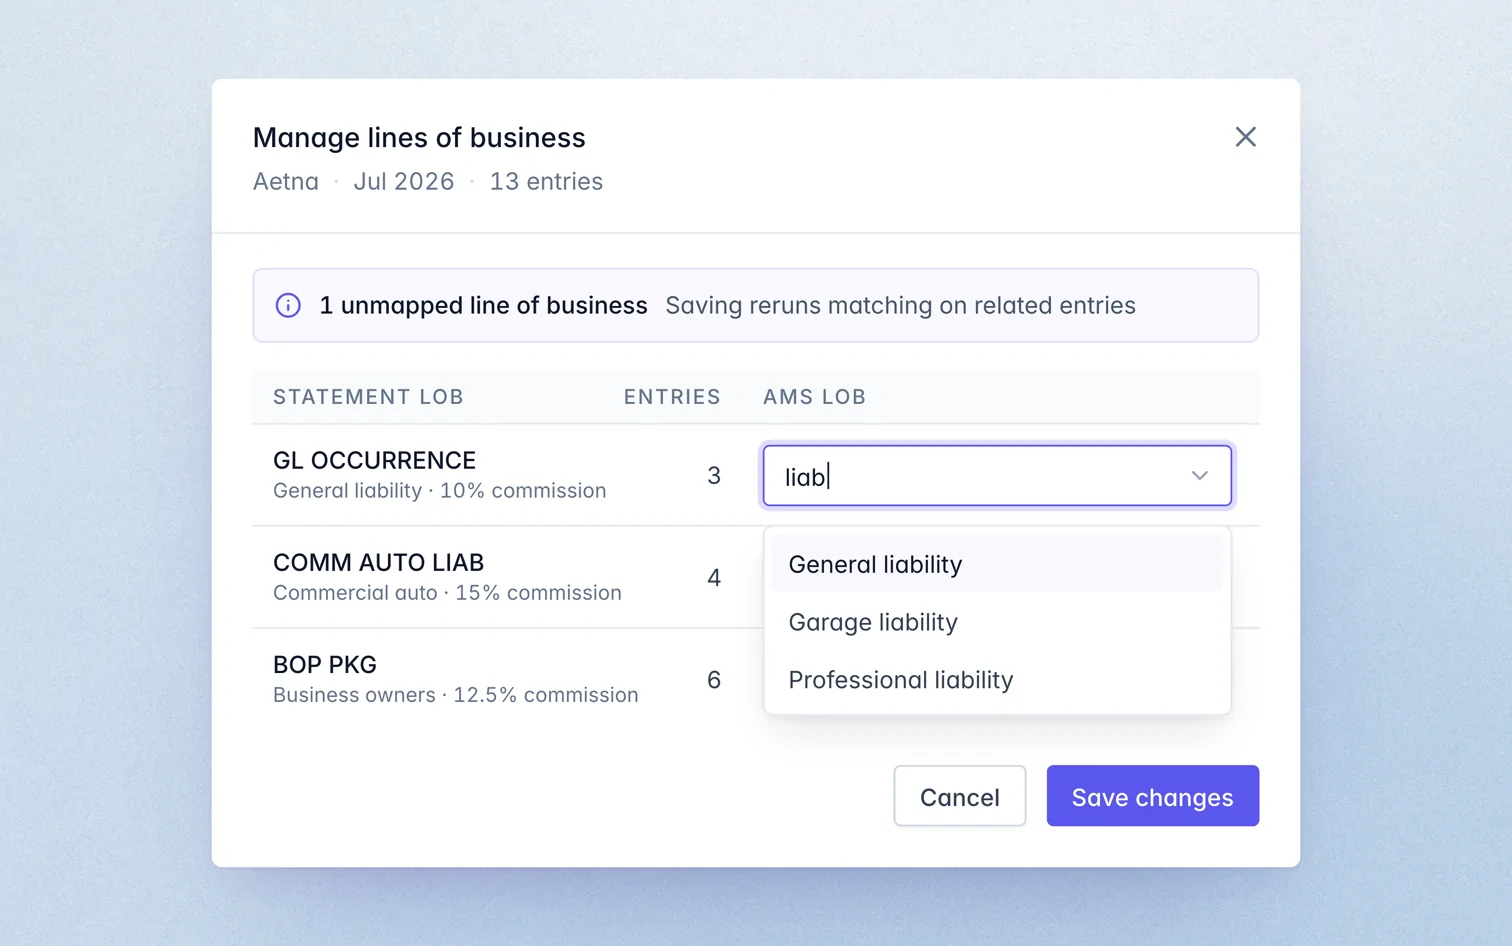
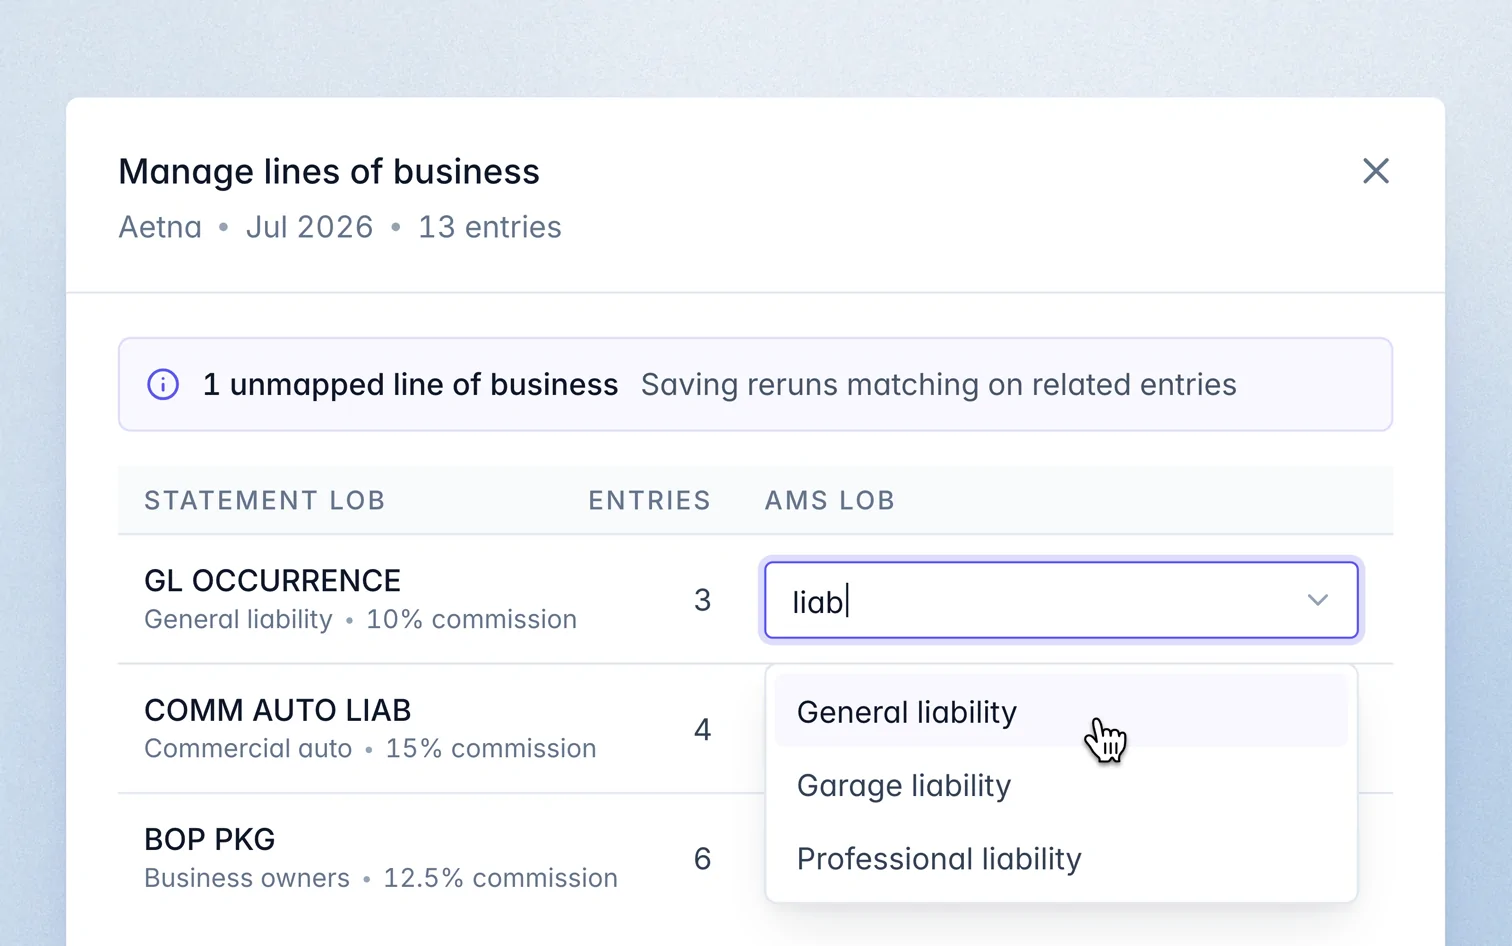
Direct Bill Automation: real captions, updated LOB shot
- Six captions describing what each shot shows, no closing periods
  (labels, not sentences); Cora AI named in 03 and 05
- 04: new Manage lines of business shot (LOB_Detail_C)

diff --git a/src/content/projects.ts b/src/content/projects.ts
@@ -28,7 +28,14 @@ export const projects: Project[] = [
     description: PITHY,
     caseStudyHref: "#",
     imageCount: 6,
-    captions: placeholderCaptions(6),
+    captions: [
+      "Every carrier statement, reconciled to zero",
+      "From carrier statement to AMS, in one pass",
+      "Cora AI matches 130 commission entries as they load",
+      "Map a carrier’s terms once, and matching reruns itself",
+      "Cora AI finds the near miss and shows the difference",
+      "Every post to the AMS, on the record",
+    ],
   },
   {
     slug: "cash-application",
